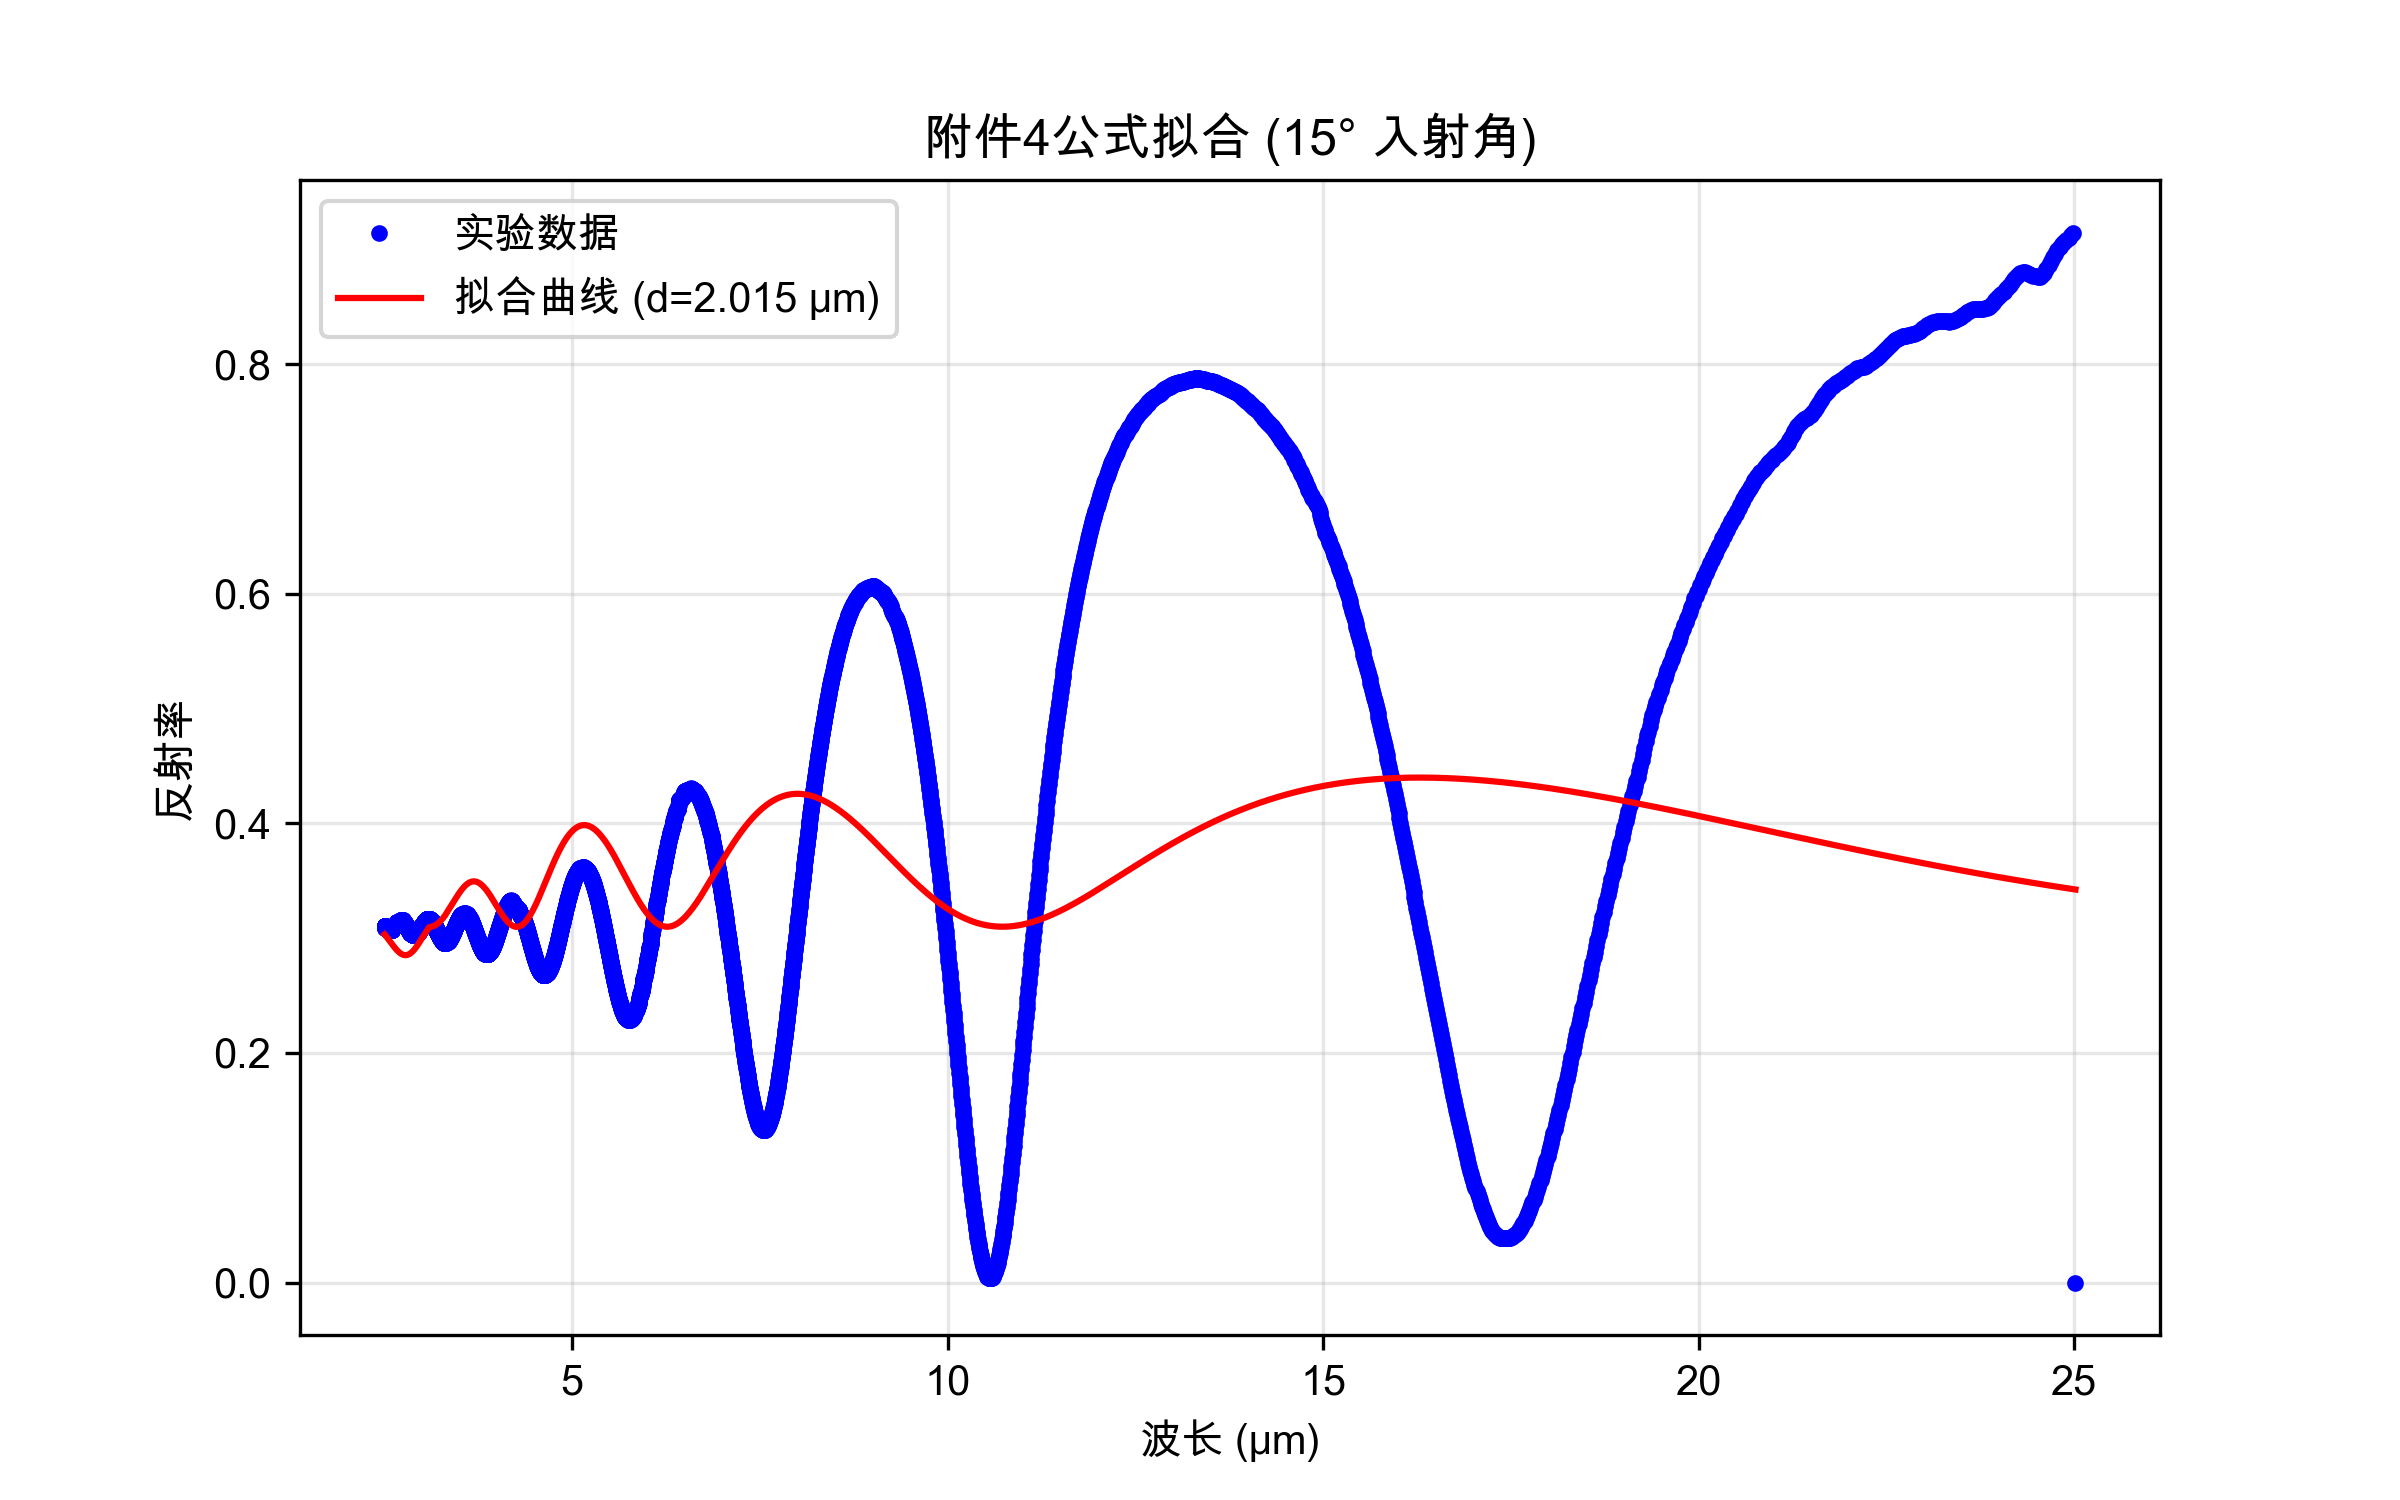
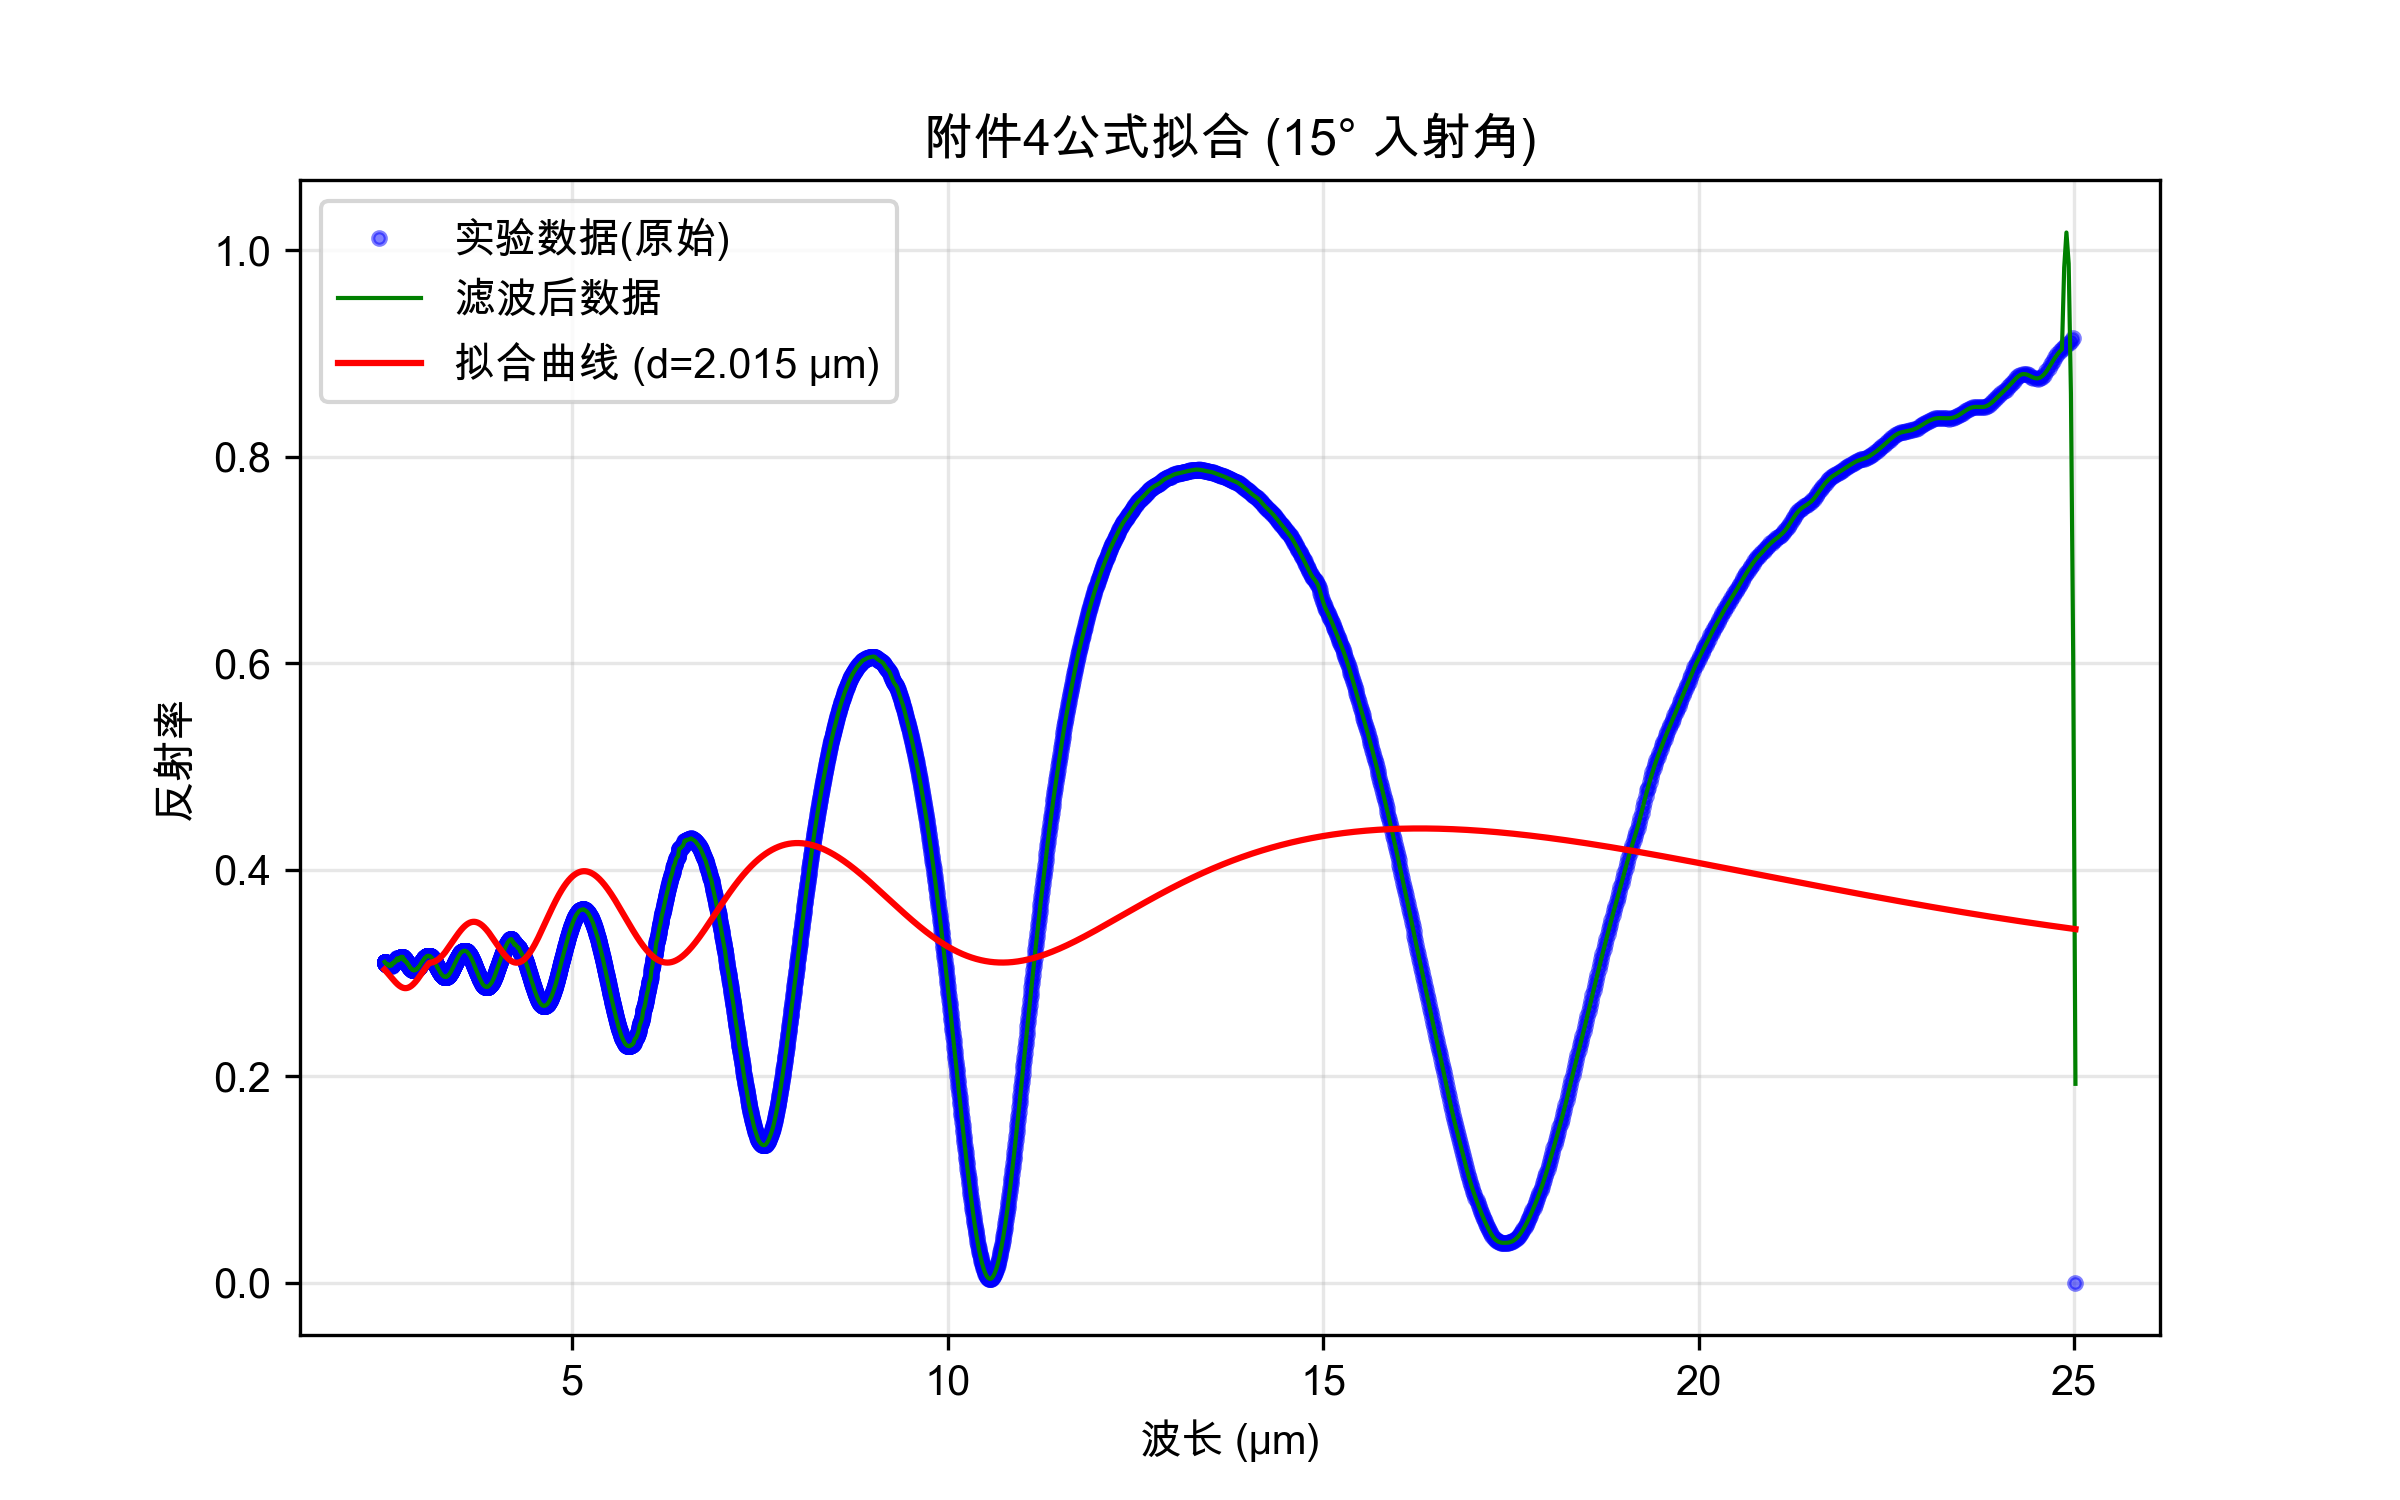
change

diff --git a/问题3/代码/附件4.py b/问题3/代码/附件4.py
@@ -28,19 +28,22 @@ def airy_reflectance(lam, d, A, B, C):
     return (r01**2 + r12**2 + 2*np.abs(r01*r12)*np.cos(2*delta)) / \
            (1 + (r01*r12)**2 + 2*np.abs(r01*r12)*np.cos(2*delta))
 
+# --- 目标函数 ---
+def objective(params, lam, R_exp):
+    d, A, B, C = params
+    return np.mean((airy_reflectance(lam, d, A, B, C) - R_exp)**2)
+
 # --- 数据读取 ---
 df = pd.read_excel("问题3/附件/附件4.xlsx", header=None, skiprows=1)
 wavelength = 1e4 / df.iloc[:,0].astype(float).to_numpy()
 R_exp = df.iloc[:,1].astype(float).to_numpy() / 100
 
 # --- 数据平滑 ---
-reflectance_filtered = savgol_filter(R_exp, 11, 3)
+reflectance_filtered = savgol_filter(R_exp, 11, 3)  # 窗口长度=11，多项式阶数=3
 
-# --- 优化求解 (基于原始数据) ---
+# --- 优化求解  ---
 init_params = [3.0, 2.6, 0.01, 0.0]
-res = minimize(objective := lambda params, lam, R_exp: 
-               np.mean((airy_reflectance(lam, *params) - R_exp)**2),
-               init_params, args=(wavelength, R_exp), method="Nelder-Mead")
+res = minimize(objective, init_params, args=(wavelength, R_exp), method="Nelder-Mead")
 d_fit, A_fit, B_fit, C_fit = res.x
 
 # --- 拟合结果 ---
@@ -48,7 +51,7 @@ R_fit = airy_reflectance(wavelength, d_fit, A_fit, B_fit, C_fit)
 r2 = 1 - np.sum((R_exp - R_fit)**2) / np.sum((R_exp - np.mean(R_exp))**2)
 rmse = np.sqrt(np.mean((R_fit - R_exp)**2))
 
-# --- 图1: 原始 vs 滤波 vs 拟合 ---
+# --- 图1: 拟合对比 (原始 vs 拟合) ---
 plt.figure(figsize=(8,5))
 plt.plot(wavelength, R_exp, 'b.', alpha=0.5, label="实验数据(原始)")
 plt.plot(wavelength, reflectance_filtered, 'g-', linewidth=1, label="滤波后数据")
@@ -56,14 +59,15 @@ plt.plot(wavelength, R_fit, 'r-', label=f"拟合曲线 (d={d_fit:.3f} μm)")
 plt.xlabel("波长 (μm)"); plt.ylabel("反射率")
 plt.title("附件4公式拟合 (15° 入射角)")
 plt.legend(); plt.grid(alpha=0.3)
-plt.savefig(os.path.join(output_dir, "附件4_拟合对比.png"), dpi=300)
+plt.savefig(os.path.join(output_dir, "附件4拟合结果.png"), dpi=300)
 plt.show()
 
-# --- 图2: 干涉条纹 (基于滤波数据) ---
+# --- 图2: 干涉条纹 (基于滤波) ---
 peaks, _ = find_peaks(reflectance_filtered, distance=30)
 lambda_peaks = wavelength[peaks]
 delta_lambda = np.abs(np.diff(lambda_peaks))
 delta_lambda_mean = np.mean(delta_lambda)
+lambda_center = np.median(lambda_peaks)
 
 plt.figure(figsize=(8,5))
 plt.plot(wavelength, reflectance_filtered*100, label="滤波反射率", color="blue")
@@ -76,31 +80,47 @@ plt.legend(); plt.grid(alpha=0.3)
 plt.savefig(os.path.join(output_dir, "附件4_干涉条纹标记.png"), dpi=300)
 plt.show()
 
-# --- 导出条纹数据 ---
-pd.DataFrame({"条纹波长_μm": lambda_peaks, 
-              "条纹间隔Δλ_μm": np.append(delta_lambda, np.nan)}).to_excel(
+# --- 导出条纹数据 (基于滤波) ---
+pd.DataFrame({"条纹波长_μm": lambda_peaks, "条纹间隔Δλ_μm": np.append(delta_lambda, np.nan)}).to_excel(
     os.path.join(output_dir, "附件4_条纹间隔数据.xlsx"), index=False
 )
 
-# --- 蒙特卡洛分析 (基于滤波数据) ---
+# -------- 附加功能：厚度可靠性分析 (快速蒙特卡洛) --------
 n_trials = 200
 d_values = []
+
 for _ in range(n_trials):
-    noise = np.random.normal(0, 0.005, size=reflectance_filtered.shape)
-    R_noisy = np.clip(reflectance_filtered + noise, 0, 1)
+    # 给实验反射率加噪声（±0.5%）
+    noise = np.random.normal(0, 0.005, size=R_exp.shape)
+    R_noisy = np.clip(R_exp + noise, 0, 1)
+
+    # 再拟合厚度（只调整厚度，固定A,B,C，加速计算）
     obj = lambda d: np.mean((airy_reflectance(wavelength, d, A_fit, B_fit, C_fit) - R_noisy)**2)
     d_noisy = minimize(obj, d_fit, method="Nelder-Mead").x[0]
     d_values.append(d_noisy)
 
+# 绘制直方图
 plt.figure(figsize=(7,5))
 plt.hist(d_values, bins=20, color="skyblue", edgecolor="black")
-plt.axvline(np.mean(d_values), color="red", linestyle="--", 
-            label=f"均值={np.mean(d_values):.3f} μm")
+plt.axvline(np.mean(d_values), color="red", linestyle="--", label=f"均值={np.mean(d_values):.3f} μm")
 plt.xlabel("厚度 d (μm)")
 plt.ylabel("频数")
-plt.title("厚度蒙特卡洛分布 (基于滤波数据)")
-plt.legend(); plt.grid(alpha=0.3)
+plt.title("厚度蒙特卡洛分布 (可靠性分析)")
+plt.legend()
+plt.grid(alpha=0.3)
 plt.tight_layout()
 plt.savefig(os.path.join(output_dir, "附件4_厚度分布_MC.png"), dpi=300)
 plt.show()
 
+# -------- 仅滤波后反射率曲线 --------
+reflectance_filtered = savgol_filter(R_exp, 11, 3)  # 再次平滑确认
+plt.figure(figsize=(8, 5))
+plt.plot(wavelength, reflectance_filtered*100, label="滤波后反射率", color="blue", linewidth=1.5)
+plt.xlabel("波长 (μm)")
+plt.ylabel("反射率 (%)")
+plt.title("附件4滤波后反射率曲线")
+plt.legend()
+plt.grid(alpha=0.3)
+plt.tight_layout()
+plt.savefig(os.path.join(output_dir, "附件4_滤波后反射率.png"), dpi=300)
+plt.show()
